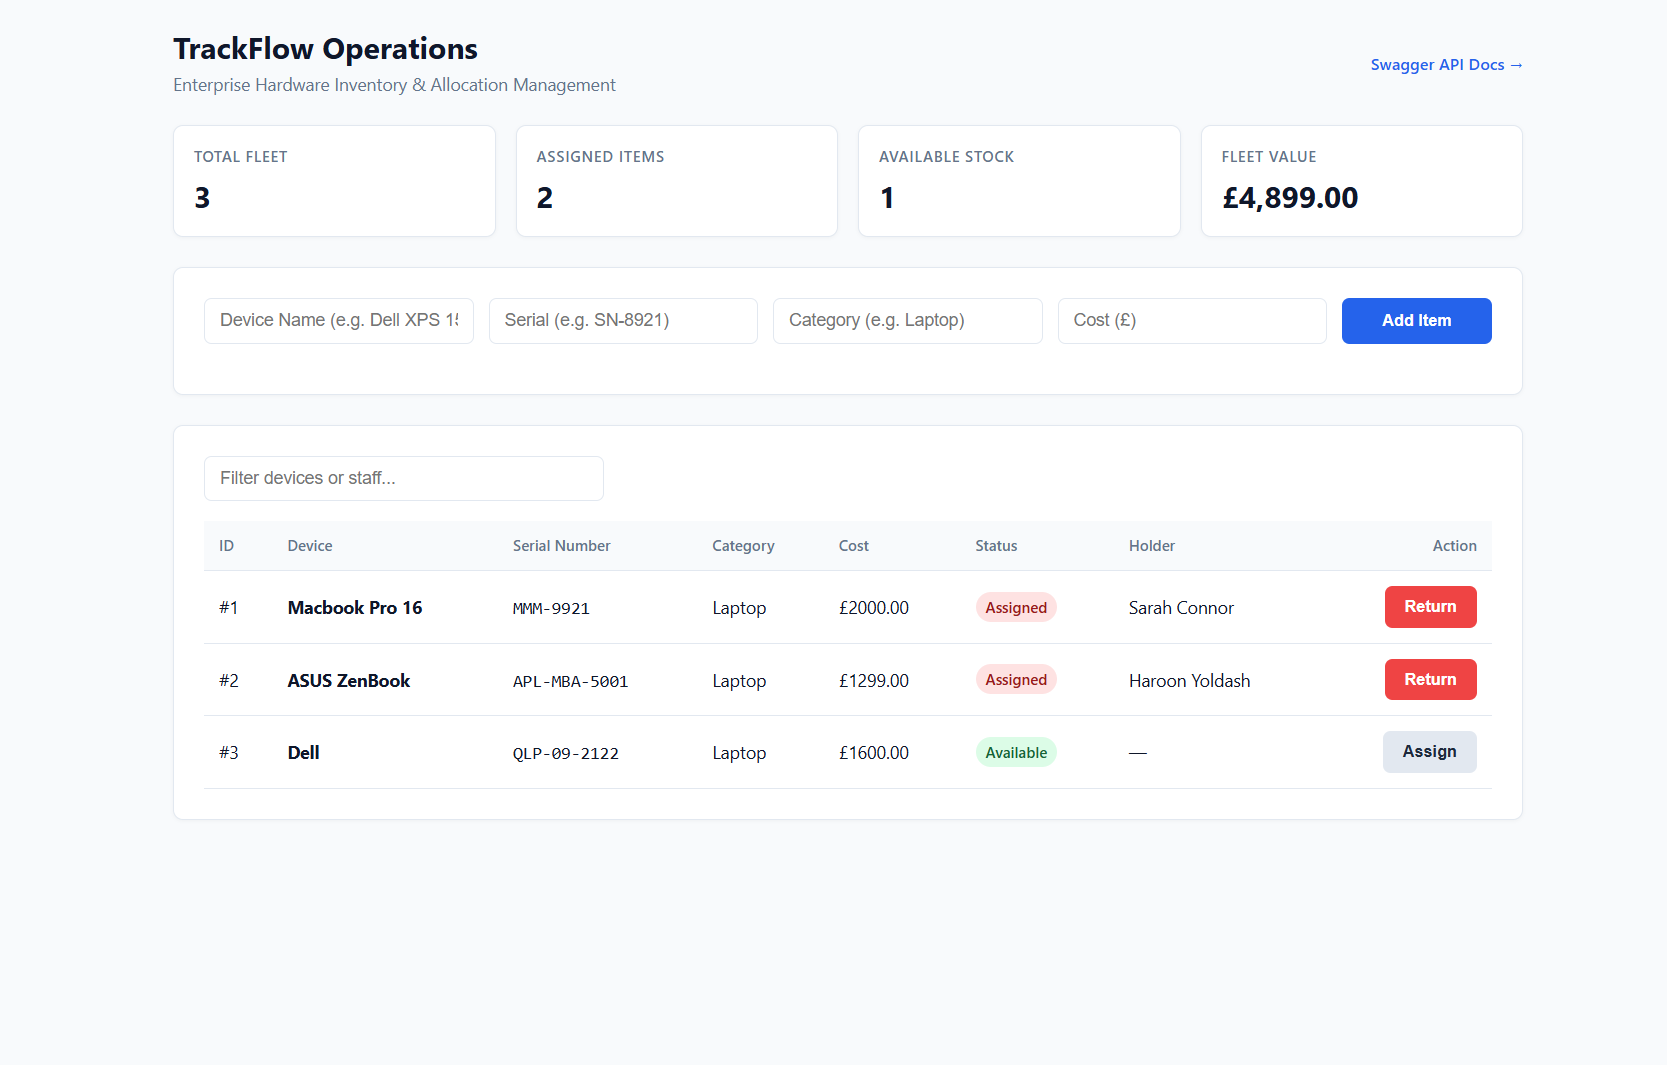
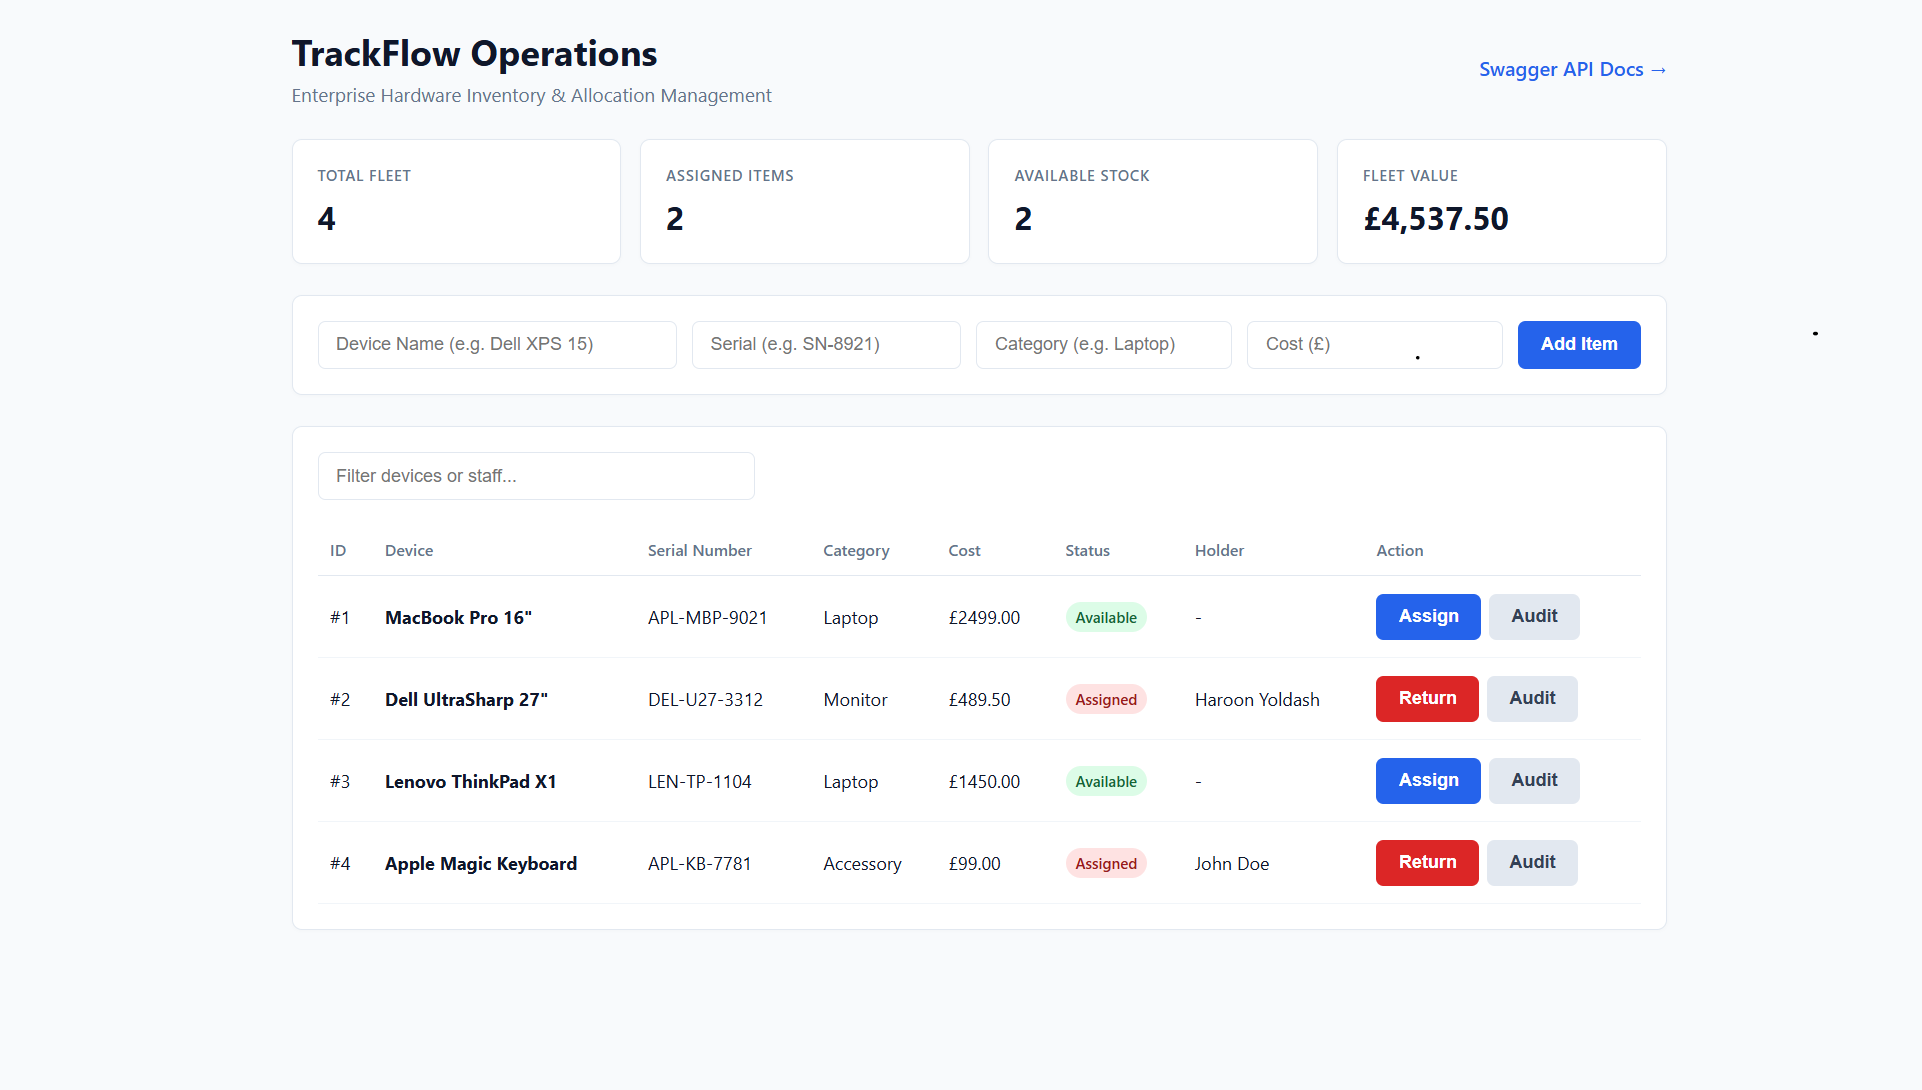
update input boxes and dashboard screenshot image

diff --git a/TrackFlow.Api/wwwroot/index.html b/TrackFlow.Api/wwwroot/index.html
@@ -87,10 +87,16 @@
 
         .form-card {
             display: grid;
-            grid-template-columns: repeat(auto-fit, minmax(180px, 1fr)) auto;
-            gap: 10px;
+            grid-template-columns: 2fr 1.5fr 1.2fr 1fr auto;
+            gap: 12px;
+            align-items: center;
             margin-bottom: 25px;
         }
+
+            .form-card button {
+                white-space: nowrap;
+                height: 100%;
+            }
 
         input {
             padding: 10px 14px;
@@ -190,7 +196,6 @@
             gap: 6px;
         }
 
-        /* Modal Styling */
         .modal-overlay {
             display: none;
             position: fixed;
@@ -296,7 +301,7 @@
         </div>
     </div>
 
-    <!-- History Modal -->
+
     <div class="modal-overlay" id="historyModal">
         <div class="modal">
             <div class="modal-header">
@@ -324,14 +329,12 @@
                 (a.assignedTo && a.assignedTo.toLowerCase().includes(q))
             );
 
-            // Metrics
             document.getElementById('m-total').innerText = assets.length;
             document.getElementById('m-assigned').innerText = assets.filter(a => a.isAssigned).length;
             document.getElementById('m-avail').innerText = assets.filter(a => !a.isAssigned).length;
             const totalCost = assets.reduce((sum, a) => sum + a.purchaseCost, 0);
             document.getElementById('m-cost').innerText = `£${totalCost.toLocaleString('en-GB', { minimumFractionDigits: 2 })}`;
 
-            // Table rows
             const tbody = document.getElementById('assetRows');
             tbody.innerHTML = filtered.map(a => `
             <tr>

diff --git a/TrackFlow.Api/Data/DbInitializer.cs b/TrackFlow.Api/Data/DbInitializer.cs
@@ -6,7 +6,6 @@ public static class DbInitializer
 {
     public static void Initialize(AppDbContext context)
     {
-        // Creates the database file and all tables (Assets, AssetHistories) if missing
         context.Database.EnsureCreated();
 
         if (context.Assets.Any())

diff --git a/README.md b/README.md
@@ -6,7 +6,7 @@ A full-stack web app built to help small IT teams track workplace hardware such 
 
 ## Preview
 
-![TrackFlow Dashboard](docs/dashboard.png)
+![TrackFlow Dashboard](TrackFlow.Api/docs/dashboard.png)
 
 ## Why I Built This
 
